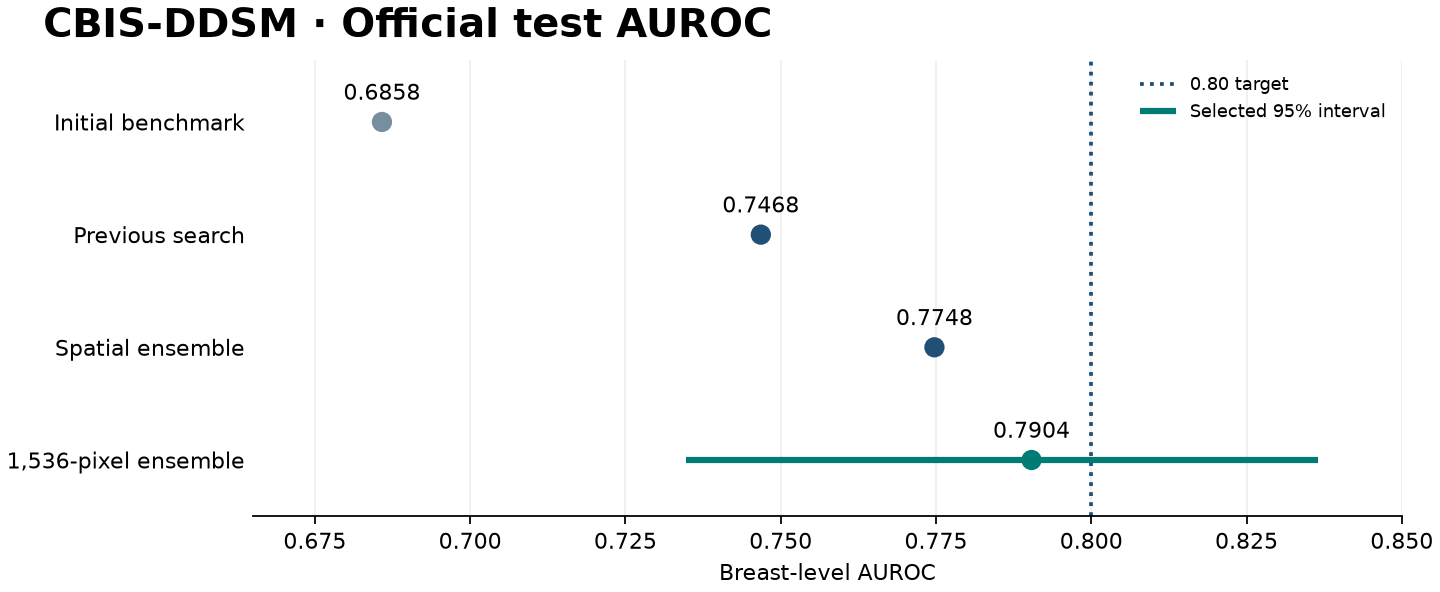
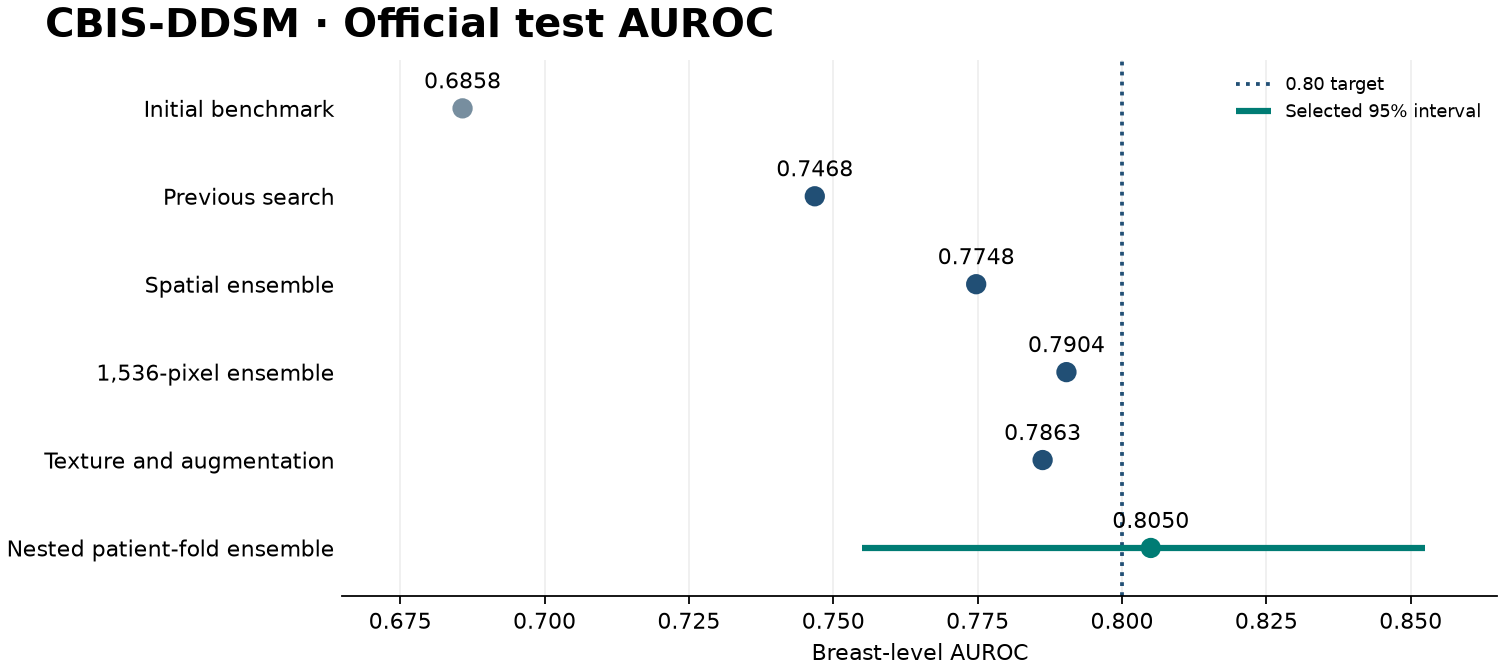
Publish final mammography ensemble and reproduction guide

diff --git a/REPRODUCE.md b/REPRODUCE.md
@@ -1,0 +1,92 @@
+# Reproduce the selected mammography ensemble
+
+Run the [original workflow](README.md#reproduce-the-experiment) from this repository. Keep its Python, dataset and Hugging Face cache paths in `$p`, `$data` and `$hf`. The following commands use the default `artifacts` and `search-artifacts` directories. Use a local volume with sufficient space for both pixel caches and the model checkpoints.
+
[1 lines of base64/hex data omitted]
+
+## Prepare pixels and train the candidates
+
+```powershell
+$PSNativeCommandUseErrorActionPreference = $true
+$ErrorActionPreference = 'Stop'
+$experiment = 'D:/experiments/mammography-discrimination'
+$mammoClip = 'D:/weights/b5-model-best-epoch-7.tar'
+$rsnaEncoder = 'D:/weights/upmc_breast_clip_det_b5_period_n_ft_seed_10_fold0_best_aucroc_ver084.pth'
+$search = 'search-artifacts'
+$cohort = 'artifacts/cache/mammo-full'
+$pixels1024 = "$experiment/pixels/mammo-spatial-v2"
+$pixels1536 = "$experiment/pixels/mammo-spatial1536"
+$runs = "$experiment/runs"
+
+& $p -m medimage.auc_mammo_data --root $data --cohort $cohort --output $pixels1024 --height 1024 --workers 8
+& $p -m medimage.auc_mammo_data --root $data --cohort $cohort --output $pixels1536 --height 1536 --workers 6
+
+& $p -m medimage.auc_train mammo --cohort $cohort --backbone effb0 --pixels $pixels1024 --weights $hf `
+    --output "$runs/mammo-spatial-effb0-768" --epochs 12 --batch 8 --accumulate 2 --resolution 768 --depth 3 `
+    --auxiliary 0.55 --lr 0.000115 --head-lr 0.00055 --class-power 0.25
+
+& $p -m medimage.auc_train mammo --cohort $cohort --backbone mammo-clip --pixels $pixels1024 --weights $mammoClip `
+    --output "$runs/mammo-clip-b5-768" --epochs 10 --batch 6 --accumulate 3 --resolution 768 --depth 2 `
+    --auxiliary 0.30 --lr 0.000055 --head-lr 0.00036 --class-power 0.25 --dropout 0.40
+
+& $p -m medimage.auc_train mammo --cohort $cohort --backbone effb0 --pixels $pixels1536 --weights $hf `
+    --parent "$runs/mammo-spatial-effb0-768/best.pt" --output "$runs/mammo-sharp1536" `
+    --epochs 6 --batch 2 --accumulate 8 --resolution 1536 --depth 3 --auxiliary 0.38 --lr 0.000055 `
+    --head-lr 0.00015 --class-power 0.25 --dropout 0.35 --seed 4513 --block 128 --affine
+
+& $p -m medimage.auc_mammo_mil --cohort $cohort --pixels $pixels1024 --weights $hf `
+    --output "$runs/mammo-mil" --patch-epochs 7 --epochs 15
+
+& $p -m medimage.auc_train mammo --cohort $cohort --backbone effb0 --pixels $pixels1536 --weights $hf `
+    --parent "$runs/mammo-sharp1536/best.pt" --output "$runs/mammo-specialist1536" `
+    --epochs 6 --batch 2 --accumulate 8 --resolution 1536 --depth 3 --auxiliary 0.34 --lr 0.000040 `
+    --head-lr 0.00019 --class-power 0.25 --dropout 0.40 --seed 4797 --block 128 --affine --specialize
+
+& $p -m medimage.auc_mammo_texture --cohort $cohort --pixels $pixels1536 `
+    --output "$runs/mammo-texture" --epochs 35 --workers 4
+
+& $p -m medimage.auc_tta --cohort $cohort --pixels $pixels1536 --weights $hf `
+    --parent "$runs/mammo-sharp1536" --output "$runs/mammo-sharp1536-tta"
+
+& $p -m medimage.auc_train mammo --cohort $cohort --backbone mammo-clip-rsna --pixels $pixels1536 `
+    --weights $rsnaEncoder --output "$runs/mammo-rsna-transfer" `
+    --epochs 8 --batch 4 --accumulate 4 --resolution 1024 --depth 3 --auxiliary 0.28 --lr 0.000075 `
+    --head-lr 0.00042 --class-power 0.24 --dropout 0.43 --seed 4981 --block 128 --affine
+
+& $p -m medimage.auc_train mammo --cohort $cohort --backbone effb0 --pixels $pixels1536 --weights $hf `
+    --parent "$runs/mammo-sharp1536/best.pt" --output "$runs/mammo-view-supervised" `
+    --epochs 6 --batch 3 --accumulate 5 --resolution 1280 --depth 3 --auxiliary 0.29 --lr 0.000045 `
+    --head-lr 0.00016 --class-power 0.21 --dropout 0.40 --seed 5003 --block 126 --affine --view-supervision
+```
+
+## Lock on validation, then run the official test
+
+The lock includes the previous ensemble from the original workflow. It stores the selected blend, validation calibrators, and file hashes in `selection.json`. The test command checks those hashes and writes aggregate metrics and a local prediction array. GPU and library versions can affect the result of retraining. [Shared protocol](https://github.com/ThorsenH1/medimage-ml-lab/blob/bbf538c89c6b686ccbfb5a202ae887ef20628d8a/docs/auroc.md)
+
+```powershell
+$evaluation = "$experiment/evaluation/mammo-locked-4"
+$paths = @('--work', $experiment, '--previous', $search, '--cohort', $cohort, '--output', $evaluation)
+& $p -m medimage.auc_selection lock mammo @paths --pairwise --stable-blend --crossfit-only `
+    --candidate 'mammo-clip=runs/mammo-clip-b5-768@mammo-spatial-v2' `
+    --candidate 'sharp1536=runs/mammo-sharp1536@mammo-spatial1536' `
+    --candidate 'patch-mil=runs/mammo-mil@mammo-spatial-v2' `
+    --candidate 'specialist1536=runs/mammo-specialist1536@mammo-spatial1536' `
+    --candidate 'calc-texture=runs/mammo-texture@mammo-spatial1536' `
+    --candidate 'sharp1536-tta=runs/mammo-sharp1536-tta@mammo-spatial1536' `
+    --candidate 'rsna-transfer=runs/mammo-rsna-transfer@mammo-spatial1536' `
+    --candidate 'view-supervised=runs/mammo-view-supervised@mammo-spatial1536'
+
+& $p -m medimage.auc_selection test mammo @paths --weights $hf --bootstrap 1000
+& $p -m medimage.auc_report --output $evaluation --previous $search
+```
+
+## Run the synthetic inputs through the final model
+
+```powershell
+$predict = @('--selection', "$evaluation/selection.json", '--work', $experiment,
+    '--previous', $search, '--original', 'artifacts', '--weights', $hf)
+& $p -m medimage.auc_predict @predict --cc examples/phantom-cc.png --mlo examples/phantom-mlo.png --output "$evaluation/phantom-paired.json"
+& $p -m medimage.auc_predict @predict --cc examples/phantom-cc.png --output "$evaluation/phantom-cc-only.json"
+```
+
+[Example outputs](examples/README.md) · [Official benchmark report](AUROC.md)

diff --git a/AUROC.md b/AUROC.md
@@ -1,43 +1,52 @@
-# High-resolution mammography experiment
+# Mammography discrimination and model selection
 
 ![Official benchmark progress](figures/auroc-summary.png)
 
-| Official test metric | Previous model search | First follow-up | High-resolution ensemble |
-| --- | ---: | ---: | ---: |
-| AUROC | 0.7468 | 0.7748 | **0.7904** |
-| Average precision | 0.7073 | 0.7324 | **0.7542** |
-| Brier score | 0.1998 | 0.1878 | **0.1819** |
+| Official test experiment | AUROC | Average precision |
+| --- | ---: | ---: |
+| Initial benchmark | 0.6858 | 0.6372 |
+| Previous model search | 0.7468 | 0.7073 |
+| Spatial model and Mammo-CLIP | 0.7748 | 0.7324 |
+| 1,536-pixel spatial model and Mammo-CLIP | 0.7904 | 0.7542 |
+| Texture and deterministic augmentation | 0.7863 | 0.7507 |
+| Nested patient-fold ensemble | **0.8050** | **0.7762** |
 
-The gain over the previous search was **+0.0435 AUROC**. The paired 95% interval was +0.0020 to +0.0850 across 1,000 patient bootstrap resamples. The high-resolution ensemble's AUROC interval was 0.7347–0.8364. The test comprises 336 breasts from 316 patients. The 0.80 point-estimate target remains open.
+The selected ensemble gained **+0.0582 AUROC** over the previous search, with a paired 95% interval of +0.0199 to +0.0971 across 1,000 patient bootstrap resamples. Compared with the 1,536-pixel round, the gain was +0.0146 with a paired interval of −0.0048 to +0.0340. Brier score went from 0.1998 to 0.1745 relative to the previous search.
+
+The test comprises 336 breasts from 316 patients. The selected model's AUROC interval is 0.7550–0.8524. Its point estimate exceeds 0.80 and its interval includes 0.80.
 
 ## Training and model selection
 
 Training uses 1,039 breasts and 2,105 geometrically aligned mammogram lesion marks. Four benign and malignant morphology combinations teach the spatial head. The original split audit groups by patient and resolves conflicting records and image links. The evaluation takes whole-view pixels and view availability.
 
-The first follow-up selected an equal blend of the previous model, a spatial EfficientNet-B0 and a Mammo-CLIP B5 model. It reached 0.8267 validation AUROC. The high-resolution round added a 1,536-pixel refinement trained with synchronized intensity and geometric augmentation. Validation compared 136 recipes and selected an equal blend of the previous model, Mammo-CLIP and the 1,536-pixel model. It reached 0.8352 AUROC and 0.8299 average precision on the 260 validation breasts.
+The first follow-up selected an equal blend of the previous model, a spatial EfficientNet-B0 and a Mammo-CLIP B5 model. It reached 0.8267 validation AUROC. The second compared 136 recipes and added a 1,536-pixel refinement with synchronized intensity and geometric augmentation. The equal blend selected on 260 validation breasts reached 0.8352 AUROC. The third compared 1,056 recipes and selected a texture and deterministic-augmentation blend with 0.8390 validation AUROC.
 
 ![Validation AUROC by epoch for four fine-tuned models](figures/high-res-validation.png)
 
-Each round locked its model, blend and calibration before official test scoring. The table presents both follow-up rounds on the same previously used benchmark. The interval describes uncertainty on this cohort.
+The fourth round introduced a separate RSNA-pretrained image encoder and view-level training supervision. It recorded 397 validation recipes and selected among four policies that fitted ensemble weights on patient-disjoint validation folds. The selected policy averages weights learned across 15 folds from three seeded five-fold partitions. Its out-of-fold blend score was 0.8200 AUROC and 0.8142 average precision on the validation cohort.
+
+| Selected component | Blend weight |
+| --- | ---: |
+| Previous locked ensemble | 32.06% |
+| RSNA breast-cancer transfer | 22.12% |
+| 1,536-pixel model with deterministic augmentation | 12.40% |
+| Projection-supervised model | 9.02% |
+| Mammo-CLIP with spatial supervision | 7.08% |
+| Mass and calcification specialists | 6.95% |
+| Patient-cross-fitted patch attention | 6.51% |
+| 1,536-pixel model with original preprocessing | 3.86% |
+
+Each round locked its model, blend and calibration before scoring the same official test benchmark. The benchmark was reused across this sequence of experiments. The reported intervals describe uncertainty on this cohort and performance on new acquisition settings remains unmeasured.
 
 ## Performance by lesion type
 
 | Reference lesion type | Breasts | AUROC |
 | --- | ---: | ---: |
-| Mass | 190 | 0.8466 |
-| Calcification | 146 | 0.7196 |
+| Mass | 190 | 0.8602 |
+| Calcification | 146 | 0.7341 |
 
 The lesion categories in this table are evaluation subgroups. The selected classifier takes one or two full projections. The endpoint is malignancy in a lesion-enriched cohort.
 
 ## Reproduce and predict
 
-Run the [original workflow](README.md#reproduce-the-experiment) to generate the initial model and cohort. The [shared protocol](https://github.com/ThorsenH1/medimage-ml-lab/blob/a290fb416fe8bce87541efabb15a4a017a362d2e/docs/auroc.md) describes lesion alignment, transfer settings and the validation lock.
-
-```powershell
-& $p -m medimage.auc_mammo_data --root $data --cohort artifacts/cache/mammo-full --output "$experiment/pixels/mammo-spatial1536" --height 1536 --workers 6
-$parent = "$experiment/runs/mammo-spatial-effb0-768/best.pt"
-& $p -m medimage.auc_train mammo --backbone effb0 --cohort artifacts/cache/mammo-full --pixels "$experiment/pixels/mammo-spatial1536" --weights $hf --parent $parent --output "$experiment/runs/mammo-sharp1536" --epochs 6 --batch 2 --accumulate 8 --resolution 1536 --depth 3 --auxiliary 0.38 --lr 0.000055 --head-lr 0.00015 --class-power 0.25 --dropout 0.35 --seed 4513 --block 128 --affine
-& $p -m medimage.auc_predict --selection "$experiment/evaluation/mammo-locked-2/selection.json" --work $experiment --previous $search --original artifacts --weights $hf --cc examples/phantom-cc.png --mlo examples/phantom-mlo.png --output prediction.json
-```
-
-The [synthetic examples](examples/README.md) give an output for paired CC and MLO projections and another for CC alone.
+The [reproduction guide](REPRODUCE.md) lists the exact training settings for each final-round candidate, the validation lock, the official evaluation, and prediction commands. The [synthetic examples](examples/README.md) show the calibrated output for paired CC and MLO projections and for CC alone.

diff --git a/README.md b/README.md
@@ -2,11 +2,11 @@
 
 Multi-view and multi-instance classification of malignancy in a lesion-enriched mammography cohort.
 
-**0.7904 AUROC** and **0.7542 average precision** on the strict 336-breast official test benchmark. The 95% patient-bootstrap AUROC interval is 0.7347–0.8364.
+**0.8050 AUROC** and **0.7762 average precision** on the strict 336-breast official test benchmark. The 95% patient-bootstrap AUROC interval is 0.7550–0.8524.
 
-The [high-resolution experiment](AUROC.md) includes the model ranking, paired test comparison and results by lesion type. See the [previous model search](REPORT.md), [search trajectories](figures/search.png), [previous aggregate metrics](metrics.json), and [synthetic examples](examples/README.md).
+The [final experiment](AUROC.md) includes the model ranking, paired test comparisons and results by lesion type. The [reproduction guide](REPRODUCE.md) records the training parameters and commands. See the [previous model search](REPORT.md), [search trajectories](figures/search.png), [previous aggregate metrics](metrics.json), and [synthetic examples](examples/README.md).
 
-![Aggregate AUROC across four locked mammography experiments](figures/auroc-summary.png)
+![Aggregate AUROC across the mammography benchmark rounds](figures/auroc-summary.png)
 
 ## Dataset
 
@@ -55,10 +55,10 @@ The runner writes the initial experiment under `artifacts/` and the extended sea
 
 ## Predict from raw input
 
-Use the model selection and checkpoint roots produced by the runner.
+After running the [final training and validation lock](REPRODUCE.md), pass one or both whole projections to the frozen ensemble.
 
 ```powershell
-& $p -m medimage.search_predict radiography --selection search-artifacts/evaluation/mammo/selection.json --search search-artifacts/runs/mammo --weights $hf --original artifacts --cc 'C:/images/cc.jpg' --mlo 'C:/images/mlo.jpg' --output search-artifacts/inference/mammo.json
+& $p -m medimage.auc_predict --selection "$experiment/evaluation/mammo-locked-4/selection.json" --work $experiment --previous $search --original artifacts --weights $hf --cc 'C:/images/cc.jpg' --mlo 'C:/images/mlo.jpg' --output "$experiment/mammo-prediction.json"
 ```
 
 The [example](examples/README.md) runs the selected local models on deterministic synthetic inputs. This is a research and education project.

diff --git a/examples/README.md b/examples/README.md
@@ -1,12 +1,12 @@
 # Synthetic prediction examples
 
-The inputs are deterministic mathematical patterns generated by the shared engine. The same locked high-resolution ensemble produces both outputs using the available views.
+The inputs are deterministic mathematical patterns generated by the shared engine. The locked nested patient-fold ensemble produces both outputs using the available views.
 
 ![Synthetic input phantom-cc.png](phantom-cc.png) ![Synthetic input phantom-mlo.png](phantom-mlo.png)
 
 | Available views | Calibrated score | Validation threshold | Response |
 | --- | ---: | ---: | --- |
-| CC and MLO | 0.8589 | 0.4364 | [Paired-view JSON](auroc-paired.json) |
-| CC only | 0.8119 | 0.4364 | [Single-view JSON](auroc-cc-only.json) |
+| CC and MLO | 0.7268 | 0.3541 | [Paired-view JSON](auroc-paired.json) |
+| CC only | 0.6397 | 0.3541 | [Single-view JSON](auroc-cc-only.json) |
 
 The examples illustrate how the prediction command records active projections and applies a previously fitted threshold. [Previous model response](prediction.json)

diff --git a/REPORT.md b/REPORT.md
@@ -1,6 +1,6 @@
 # Previous model-search report
 
-The [high-resolution experiment](AUROC.md) raised AUROC to 0.7904 on the same official test cohort. The results below document the prior search.
+The [high-resolution and nested-validation experiments](AUROC.md) raised AUROC to 0.8050 on the same official test cohort. The results below document the prior search.
 
 The selected configuration is `incumbent+adapted-dino-224-0.25` with weights {"incumbent-global": 0.75, "adapted-dino-224": 0.25}.
 
